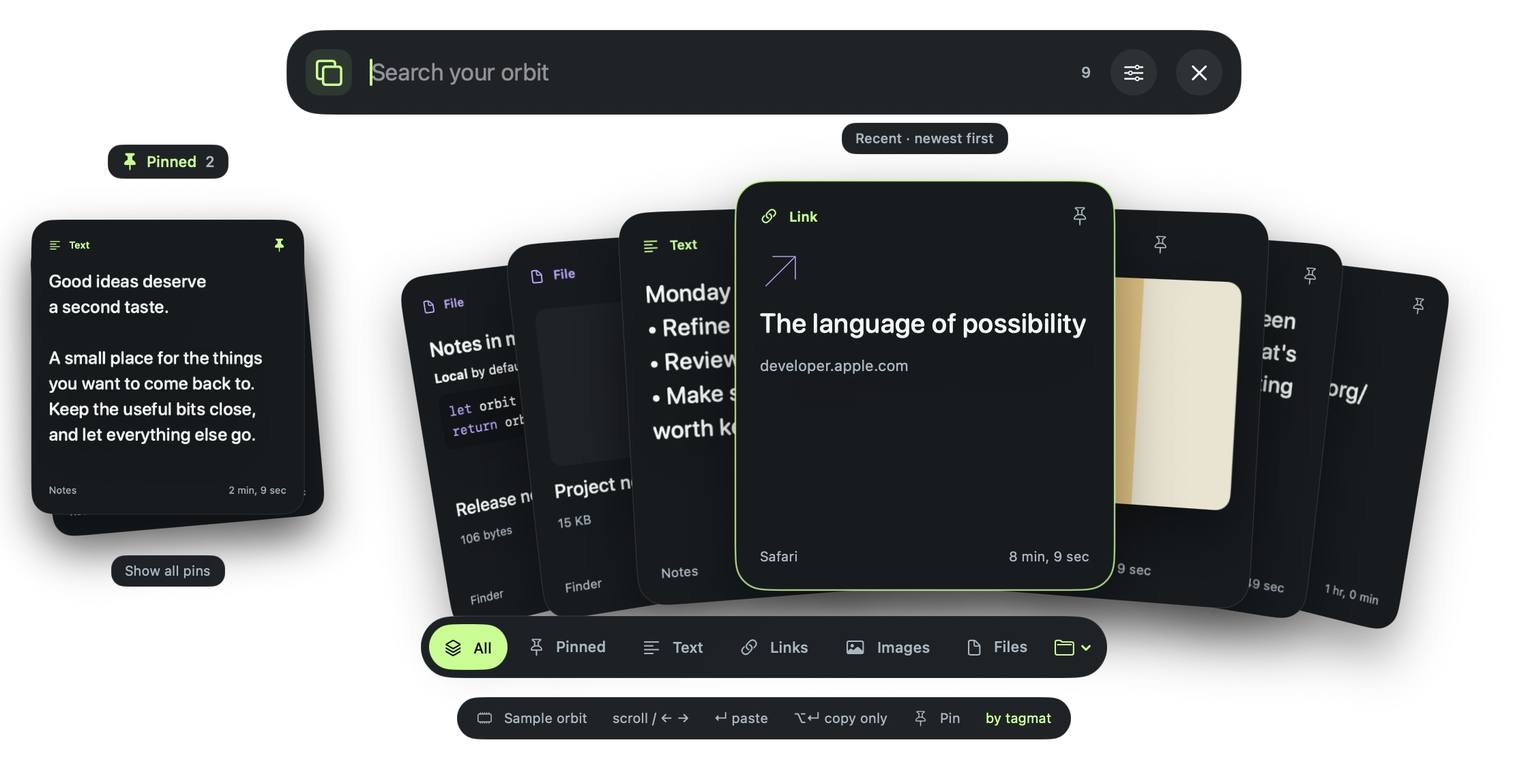
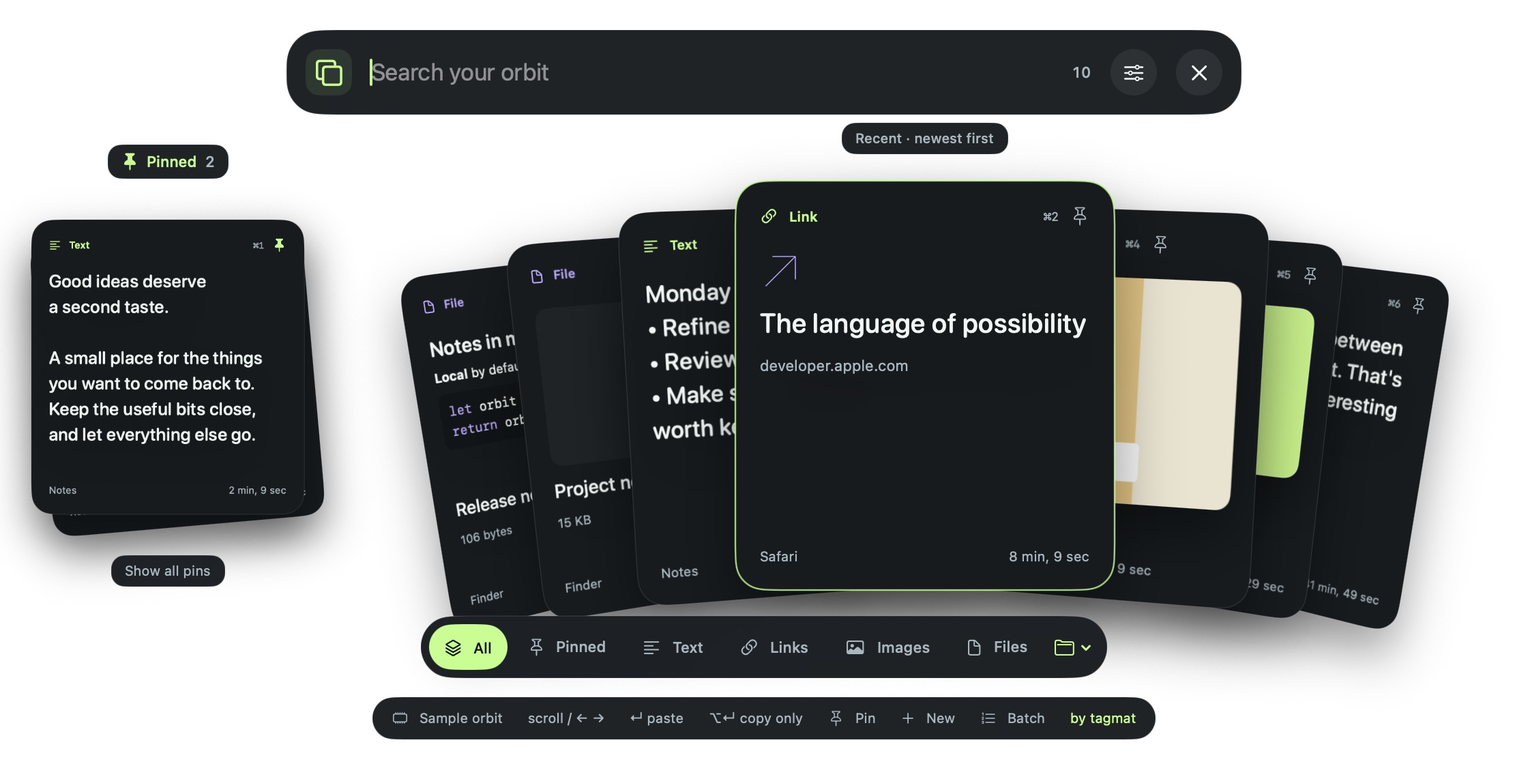
docs: illustrate the new clipboard workflows

diff --git a/README.md b/README.md
@@ -42,19 +42,28 @@ open -n dist/CopyTaste.app --args --demo
 - **Scroll or arrow keys:** move through the cards; **Return:** paste the selected clip.
 - **Option-Return:** copy without automatic paste. **Escape:** dismiss.
 - **Command-P:** pin or unpin the selection. Each card also has a pin button.
+- **Command-1 through Command-9:** paste one of the nine newest matching clips. Cards show their shortcut.
+- **Command-E:** edit the selected clip or rename an image or file. **Command-N:** create a text snippet.
+- **Command-B:** add or remove the selected text or link in the current batch. Open **Batch** to review the order, choose a separator and paste or copy it as one block.
 - Filter All, Pinned, Text, Links, Images or Files. The folder menu filters collections.
 - Right-click a card to copy, assign a collection or delete it.
+
+Change or turn off the global shortcut in **Advanced Settings → On your Mac**. The menu bar still opens the selector.
+
+Enable **Search text in images** in **Privacy & capture** to recognise text from up to 60 recent images using Vision on your Mac. Results are searchable while the selector is open. The temporary index stays in memory and is discarded with the selector. A batch holds up to 12 text clips or links. Closing the selector or switching away clears the batch and any unsaved draft.
 
 The default **Pinned + recent** layout keeps a small pin stack on the left and chronological cards on the right. Open **Show all pins** for the complete pinned collection. Choose **Single orbit** in the menu-bar bubble or advanced settings to combine everything in one chronological stream. Wheel and trackpad gestures move selection while the selector is open.
 
 Cards fan out with staggered springs, respond to pointer movement, move through depth when selection changes and fly away on choosing. Reduce Motion removes the flight, tilt and scale animations. Controls keep a dark substrate so text remains readable over bright or dark desktops.
 
 <details>
-<summary>Quick settings and file previews</summary>
+<summary>Quick settings, file previews and batch paste</summary>
 
 ![Menu-bar quick settings using sample data](docs/media/quick-settings.png)
 
 ![File cards showing formatted Markdown, syntax-coloured Swift and a local PDF thumbnail](docs/media/files.png)
+
+![Batch preview showing two sample clips in paste order](docs/media/batch.png)
 
 </details>
 
@@ -62,7 +71,7 @@ Cards fan out with staggered springs, respond to pointer movement, move through 
 
 **Paste on selection** is enabled by default. Open the menu-bar bubble and check **Accessibility**. Choose **Allow…** to request access when needed. CopyTaste only sends Command-V to the original destination process after checking permission, secure input, activation and session validity.
 
-If access is missing, a destination disappears or focus changes, the item is copied instead and no paste is sent to an unrelated app. Copy-only remains available. The sample selector never activates a destination or sends keyboard events. Real destination support depends on the receiving app and the selected content type.
+If access is missing, a destination disappears or focus changes, the item is copied for manual paste. If another copy replaces it while the destination activates, CopyTaste preserves the newer clipboard and cancels the paste. The sample selector never activates a destination or sends keyboard events. Real destination support depends on the receiving app and the selected content type.
 
 Quick and advanced settings refresh **Accessibility** and **Clipboard access** while visible. On macOS 15.4 or later, clipboard access shows the system setting for reading copies from other apps. If it is blocked, new clips are skipped. Check the Paste from Other Apps setting in macOS Privacy & Security. On earlier macOS versions the clipboard status is unavailable.
 
@@ -73,6 +82,8 @@ Version 0.2 fixes mixed clipboard items: real PNG/TIFF/JPEG/HEIC/GIF/WebP/BMP im
 Files are supported up to **8 MB per file**, within the **24 MB history budget**. Image files and PDFs show small thumbnails; UTF-8 text files show an excerpt; other types, including documents and archives, show the system file-type icon, name and size. A file is pasted as a file URL, not as its filename text.
 
 Markdown clips and `.md` files preview headings, emphasis, lists, quotes and fenced code. Recognised source files and code-like clips colour keywords, strings, comments, numbers and function calls. Formatting is a bounded preview rather than a full editor or language parser. Links are inert, remote images are never loaded, and code is never executed.
+
+Plain text previews are bounded and the full saved text remains available for pasting. Standalone `#RGB` and `#RRGGBB` values show a colour swatch.
 
 Files are captured one at a time. Directories, symlinks, multi-file copies, common key/vault formats and sensitive filenames are skipped. Recognised text files also pass the secret filter and 512 KiB text limit. Binary documents and images are not scanned for every possible secret; exclude sensitive applications and pause capture for private workflows.
 
@@ -88,7 +99,7 @@ File contents stay in RAM or the chosen encrypted history. **Pasting or copying 
 | iCloud Drive sync | Shared passphrase-encrypted file | Synced history remains encrypted |
 | Save pinned items only | Optional rule for local encrypted vaults | Other clips are discarded |
 
-Entries expire after 7 days by default, including pins. Choose 1, 7 or 30 days and 100, 300 or 1,000 clips. Expiration is checked during use and on reopening; a closed app cannot run background deletions. Memory mode clears pins and collections on lock or quit too. macOS may page memory to disk; use FileVault to protect your Mac.
+Entries expire after 7 days by default, including pins. Choose 1, 7 or 30 days and 100, 300 or 1,000 clips. **Keep pins past expiry** skips the age limit for pins and gives them priority within the count and byte limits. Match this choice across Macs sharing an iCloud vault. Expiration runs during use and on reopening. Memory mode clears pins and collections on lock or quit. macOS may page memory to disk, so use FileVault to protect your Mac.
 
 Local vaults use a non-synchronising Keychain key. Opening saved history requires Mac authentication. A copied local vault requires the original keychain; losing that key loses access. Apply storage changes explicitly. The new vault is written before the old active local vault is removed. Backups and filesystem snapshots cannot be revoked by the app.
 
@@ -98,7 +109,9 @@ In advanced settings, choose **iCloud Drive · encrypted sync**, enter a unique 
 
 Clips, files, pins and collections are merged through `iCloud Drive/CopyTaste/history.copytaste`. Data is encrypted before writing using AES-256-GCM and a PBKDF2-HMAC-SHA256 key (600,000 iterations, random salt). The phrase is not saved and cannot be recovered; enter it after locking or restarting.
 
-Merges run every six seconds while open and unlocked, coordinate file access and combine unresolved iCloud conflict versions. Deletions prevent stale peers restoring removed items. macOS handles network delivery: the local-merge time does not certify arrival on another device. Disconnecting leaves the shared encrypted file for other Macs. Paused capture does not pause sync; lock to stop both and unload the session.
+While open and unlocked, CopyTaste checks for merges every six seconds. A failed merge keeps changes in bounded memory and retries with increasing delays. Advanced settings show the issue, whether changes are waiting and the last successful local merge. Use **Sync Now** to retry immediately. Lock or quit discards pending changes that could not be written. If an existing vault is missing when reopened, restore it in iCloud Drive first.
+
+Deletions prevent stale peers restoring removed items. macOS handles network delivery, and a local merge time only reports the local file operation. Disconnecting leaves the shared encrypted file for other Macs. Locking stops capture and sync and unloads the session.
 
 The merge and encryption protocol is tested with isolated temporary files. Live delivery, account access and iCloud conflict handling still need two-Mac validation. There are no app accounts, analytics, remote previews, content logs or custom sync servers.
 

diff --git a/DESIGN.md b/DESIGN.md
@@ -17,6 +17,7 @@ typography:
   brand: {fontFamily: "ui-rounded, system-ui", fontSize: "20pt", fontWeight: 600}
   link: {fontFamily: "ui-rounded, system-ui", fontSize: "20pt", fontWeight: 500}
   clip: {fontFamily: "ui-rounded, system-ui", fontSize: "18pt", fontWeight: 500}
+  swatch-label: {fontFamily: "ui-monospace, monospace", fontSize: "18pt", fontWeight: 500}
   search: {fontFamily: "system-ui", fontSize: "17pt", fontWeight: 400}
   section: {fontFamily: "system-ui", fontSize: "15pt", fontWeight: 600}
   file-name: {fontFamily: "system-ui", fontSize: "15pt", fontWeight: 500}
@@ -25,6 +26,7 @@ typography:
   markdown-heading: {fontFamily: "ui-rounded, system-ui", fontSize: "17pt", fontWeight: 600}
   filter: {fontFamily: "system-ui", fontSize: "11pt", fontWeight: 500}
   metadata: {fontFamily: "system-ui", fontSize: "10pt", fontWeight: 400}
+  shortcut-hint: {fontFamily: "ui-monospace, monospace", fontSize: "9pt", fontWeight: 400}
 rounded:
   code-block: "7pt"
   thumbnail: "10pt"
@@ -91,13 +93,25 @@ Cards use continuous rounded corners. Search, filter and hint strips use their d
 
 Choosing a fan card flings it 160 points upward while other fan cards drop 95 and spread outward. The departure uses 180 ms ease-in, fading and blurring to 9 points; the chosen card scales to 1.06 and others to 0.68. The controller waits 180 ms before hiding on choice or ordinary dismissal, then copies or pastes when applicable; loss of key status hides immediately. Reduce Motion removes phase/selection animations, tilt, rotation, blur and animated scaling, keeps the static fan positions and compact pin-stack scale, and skips the departure wait.
 
-**Interaction.** Command-Shift-V opens the selector. Arrow keys, mouse wheel and trackpad scrolling navigate. Scroll handling is local to the open selector, follows the dominant axis and ignores momentum; precise scrolling accumulates 28 points per step, with a 90 ms minimum between steps. Return and card activation paste when enabled; Option-Return copies only. Command-P, card pins and filters keep the selector open. Escape dismisses. Direct paste requires Accessibility permission; otherwise feedback and its permission action appear in the menu-bar bubble. Context menus provide copy, paste, pin, collection and delete. Icon actions have accessible names; selected cards expose a summary and selected state.
+**Interaction.** Command-Shift-V opens the selector by default. The advanced shortcut picker also offers Option-Command-V, Control-Option-V and Off. The menu-bar bubble shows the active shortcut when enabled. Arrow keys, mouse wheel and trackpad scrolling navigate. Scroll handling is local to the open selector, follows the dominant axis and ignores momentum. Precise scrolling accumulates 28 points per step, with a 90 ms minimum between steps.
+
+Return and card activation paste when enabled. Option-Return copies only. Command-1 through Command-9 choose the nine newest matches in either layout. Visible cards in that set show a muted monospaced shortcut hint beside the pin. Command-P, card pins and filters keep the selector open. Escape dismisses the selector or returns from an inline workflow to search. Icon actions have accessible names. Selected cards expose a summary and selected state.
+
+**Inline workflows.** The editor and batch preview replace the cards inside the same floating panel. Both use a 440-point frosted surface with 22-point padding and 18-point corners. Command-E or the card menu opens the editor. Command-N or New opens a snippet draft. The editor has an optional title and a 150-point text area for editable text and links. Image and file clips can be renamed. Validation appears inline in violet. Save or Cancel returns focus to search.
+
+Command-B or the card menu toggles a text or link clip in the batch. The Batch control opens a numbered preview in the order clips were added. A batch holds up to 12 clips and 512 KB of combined text. Items can be removed individually or cleared together. The separator can be a new line, blank line or tab. The footer offers Paste and Copy when automatic paste is enabled, and Copy when it is disabled.
 
 **Previews.** Real image representations take precedence over accompanying URLs. Image thumbnails stay in memory and crop to a 174-point preview. Files use a 126-point image or first-page PDF preview, a text preview, or a native 70 × 84 type icon with name and size. Eligible text files up to 512 KB decode at most 8000 bytes, then choose Markdown, code or plain text by format; filenames participate in search. Links show a title and host without fetching pages.
 
-Markdown and code previews use local SwiftUI text and AttributedString formatting. Markdown parsing is bounded to 8000 characters and 120 input lines; cards show at most six blocks, with headings, inline emphasis, lists, quotes, rules and fenced code. Text-card Markdown clips at 190 points. Links are inert and images are never fetched. Code highlighting is bounded to 8000 characters, with ten lines in text cards, seven in files and five inside Markdown fences. Fenced code has 8-point padding, code-block corners and an 18%-black backing.
+Text cards inspect the first 8000 characters. Plain text shows up to 1800 characters across seven lines. A standalone `#RGB` or `#RRGGBB` value uses a 136-point swatch with 12-point corners, a light outline and its monospaced value beneath it.
 
-**States.** Empty and no-match results replace cards with a frosted message and capture opt-in when applicable. Locked history replaces previews with authentication and, for iCloud, a secure passphrase field. The bubble shows capture/lock state, clip count, storage, native mini switches and conditional permission guidance. Advanced settings use native fields, pickers and alerts within graphite sections. Errors and feedback omit clipboard payloads.
+Markdown and code previews use local SwiftUI text and AttributedString formatting. Markdown parsing is bounded to 8000 characters and 120 input lines. Cards show at most six blocks, with headings, inline emphasis, lists, quotes, rules and fenced code. Text-card Markdown clips at 190 points. Links are inert and images are never fetched. Code highlighting is bounded to 8000 characters, with ten lines in text cards, seven in files and five inside Markdown fences. Fenced code has 8-point padding, code-block corners and an 18%-black backing.
+
+**Image text search.** The advanced privacy setting enables on-device Vision recognition for up to 60 recent images while the selector is open. The index lives in the selector session and clears on lock. The search capsule displays an accessible progress indicator when a query is present and recognition is still running.
+
+**States.** Empty and no-match results replace cards with a frosted message and capture opt-in when applicable. Locked history replaces previews with authentication and, for iCloud, a secure passphrase field. The bubble shows capture or lock state, clip count, storage and native mini switches. Advanced settings use native fields, pickers and alerts within graphite sections. Errors and feedback omit clipboard payloads.
+
+**Permission and sync status.** Quick and advanced settings refresh Accessibility and clipboard access status while visible. Accessibility gates direct paste and has an Allow action when access is missing. Clipboard access displays the system behavior where macOS exposes it and an unavailable state on earlier releases. Sample sessions display their own status. For active, unlocked iCloud storage, advanced settings show the last local merge when available, a Sync Now action, retry feedback and changes waiting in memory. The bubble reflects pending changes or a retry beneath its storage label.
 
 ## Do's and Don'ts
 

diff --git a/SECURITY.md b/SECURITY.md
@@ -1,6 +1,6 @@
 # Security model
 
-CopyTaste 0.2.0 is an early release. It reduces accidental retention of sensitive copies; it is not a password vault or a defence against a compromised Mac.
+CopyTaste 0.3.0 reduces accidental retention of sensitive copies.
 
 ## Capture boundary
 
@@ -28,7 +28,7 @@ The key is a 256-bit value stored through Security.framework as a non-synchronis
 
 A missing key, failed authentication, corrupt file or unsupported version leaves the existing vault untouched. A storage write failure pauses capture and does not fall back to plaintext persistence. Saved history starts locked on relaunch. Key references are released when locking; keys are not printed or committed. Changing storage removes the prior active vault after writing the destination. A copied vault is not portable to a new Mac without the original Keychain item.
 
-App-managed retention applies to pins too, on capture, every minute while open and when reopening a saved vault. Files are not deleted while the app is closed. Removing entries or a vault is not guaranteed secure erasure on APFS, SSDs, provider backups or snapshots. Copies previously made by another application cannot be revoked.
+App-managed retention applies to pins by default, on capture, every minute while open and when reopening a saved vault. The optional pin exemption skips only the age limit. Pins still count toward the clip and byte limits. Files are not deleted while the app is closed. Removing entries or a vault is not guaranteed secure erasure on APFS, SSDs, provider backups or snapshots. Copies previously made by another application cannot be revoked.
 
 ## Clipboard output
 
@@ -43,6 +43,8 @@ The sync phrase is not persisted in Keychain, UserDefaults or the vault. Its UTF
 The encrypted state includes content, pin state, collection membership, deletion fingerprints and a clear-history timestamp. Merge prefers the most recently modified entry with a deterministic identity tie-break, and applies deletion boundaries to original capture dates so stale pin changes cannot resurrect removed content. Recopying after deletion creates a new capture date and can be retained again. Each merge reapplies the receiving device's content filters and retention. Device clocks must be reasonably accurate. Deletion logs are bounded; filling them pauses writes instead of dropping deletion evidence. Start a fresh shared vault after archiving or removing the old one if this boundary is reached.
 
 NSFileCoordinator coordinates local access. Unresolved NSFileVersion conflicts are decrypted, merged and marked resolved after a successful write. Identical state does not cause a new write, avoiding continuous sync churn. Known evicted placeholders are requested for download before connecting; no fresh vault is created over those placeholders. iCloud provides transport and account protection; a local merge timestamp does not establish delivery. Availability, placeholder formats and conflict handling need live multi-device validation. Disconnecting or switching to memory does not delete cloud/provider copies. All clients knowing the phrase can decrypt and modify shared history; no separate device revocation protocol exists in this version.
+
+A failed merge leaves pending edits and deletions in the unlocked session's bounded memory. CopyTaste retries with backoff and reports the last local merge. Lock or quit discards pending changes. Only explicit iCloud setup can initialise a vault. Reopening a previously configured vault requires the original file or a restored copy.
 
 ## Distribution and reporting
 
@@ -63,6 +65,8 @@ File URLs are handled only after metadata rejection. Only one regular file is ca
 
 Image representations win over accompanying text or URLs. Disabling image capture does not silently keep that image's URL. Thumbnail decoding is bounded before bitmap allocation; PDFs are rendered from Data at thumbnail size. Generic file types use native icons. No remote preview fetch or document macro execution is performed. Binary archives/documents and images may contain secrets the app cannot identify. All peers must support the file entry kind (0.2 or newer) before using file sync.
 
+Image text search is opt-in. Vision processes bounded images locally while the selector is open. Recognised text that matches secret heuristics is omitted from the temporary search index. The index is separate from history and is released on closing or locking the selector. Manual snippets, edited text and clip labels pass the text secret filter before saving.
+
 Selecting Copy or Paste for a file materialises an outgoing file in a unique owner-only temporary directory. The directory is mode 0700 and file mode 0600; its path is placed on the private-marked pasteboard. Transfers expire after five minutes even when clipboard auto-clear is set to Never. Clear History, lock and quit remove owned transfers earlier. Removal is best effort and does not promise secure erasure on SSDs, snapshots or crash recovery. A receiving application may retain its own copy. A crash can leave temporary transfers for OS cleanup.
 
 ## Direct paste and permissions
@@ -70,5 +74,7 @@ Selecting Copy or Paste for a file materialises an outgoing file in a unique own
 Automatic paste is a separate, optional delivery action after an explicit item selection. It requires Accessibility permission; CopyTaste cannot grant that permission itself. Copy-only and demo modes never post input. The app copies first, validates the requested process, activates it, waits briefly and checks trust, secure input, foreground PID and session generation again. Events are addressed to the original PID through CGEvent.postToPid, rather than sent indiscriminately to whichever app gains focus. Locking or reopening the selector cancels an in-flight paste. No global event tap, keystroke logger or Input Monitoring entitlement is used.
 
 Missing permission or failed destination validation leaves a copy available for manual paste. CGEvent delivery has no acknowledgement that the receiving app accepted the content; app-specific paste formats still matter. Real Accessibility approval and cross-app delivery need manual OS testing. Local ad-hoc rebuilds can require permission reapproval; use a stable Developer ID for distribution.
+
+The pasteboard change count is checked after destination activation. A newer copy cancels the pending paste and remains intact. Batch paste builds one temporary text block from explicitly selected text or links. It uses the same output and destination checks as a single clip.
 
 While settings are visible, CopyTaste queries its Accessibility trust and, on macOS 15.4 or later, the system pasteboard access policy. These status checks do not read clipboard contents or display permission prompts. The Allow button explicitly requests Accessibility. When the system policy blocks programmatic pasteboard access, the capture monitor skips the change before requesting item metadata or contents. The policy can be inspected separately from the Capture switch.

diff --git a/docs/ARCHITECTURE.md b/docs/ARCHITECTURE.md
@@ -16,6 +16,8 @@ Entries deduplicate by content fingerprint, including file bytes and filename, t
 
 The selector is a transparent, nonactivating NSPanel. SwiftUI positions up to seven real clipboard cards around the selected index using circular slots, perspective, spring motion, staggered entry and exit flight. The default layout places a small pinned stack on the left and chronological recent cards on the right; a presentation preference selects a combined chronological orbit instead. Matching entries retain the full bounded history, so pins cannot displace recent results through a separate display cap. Search/filter/hint surfaces combine native material with a dark substrate. Keyboard focus, arrow navigation, copy-only, pinning, filters and collection assignment operate on the same retained history. A local scroll monitor accepts wheel/trackpad events only from the open picker window, ignores momentum and advances selection. Reduce Motion suppresses spatial animation. Preview mode has a separate app identity, isolated pasteboard and no hot-key registration, allowing development without restarting a live memory session.
 
+The clip editor and ordered batch share the selector's panel. Batch selection stores IDs and resolves them against current history. Saving edited text assigns a new identity and records the prior fingerprint's deletion during sync. Labels and unchanged bodies preserve their identity. An optional search index recognises bounded images on a serial Vision actor and stays inside the selector view. The panel releases its hosting view on dismissal.
+
 `PreviewCache` bounds in-memory bitmap and PDF thumbnails. PDFDocument stays alive while PDFPage renders. Generic files use system type icons. No preview file is written merely to render the selector.
 
 `PreviewFormatting` bounds Markdown parsing and syntax tokenisation to 8,000 characters. Markdown blocks render as native SwiftUI text; inline links are removed and images are never fetched. Code token UTF-16 ranges are converted to SwiftUI AttributedString ranges for colouring. Known file extensions take precedence over text heuristics. These inert previews do not execute code or embed a browser.
@@ -31,5 +33,7 @@ File paste materialises a unique mode-0700 directory and mode-0600 file through 
 Memory mode never invokes a history file or key adapter. Local vaults encrypt the complete snapshot with AES-256-GCM before atomic writes; their non-synchronising key uses Security.framework. LocalAuthentication gates reopening saved history.
 
 Optional iCloud Drive sync uses a separate passphrase-derived portable key, coordinated file access, version-conflict merging, modification timestamps, deletion fingerprints and a clear boundary. The original phrase material is held only while unlocked to derive keys for independently initialised salts. File entries require 0.2-capable peers. The cloud path is the user's already-enabled iCloud Drive directory, not a custom server.
+
+In sync mode, the model stages accepted mutations in its current in-memory snapshot and keeps their tombstones until exchange succeeds. Failures leave the state visible, record the reason and schedule a bounded retry. A successful local merge clears the pending status. Reopening requires the existing vault. Only explicit setup may create one.
 
 Lock/session/sleep signals stop capture, clear owned clipboard output and temporary transfers, purge preview caches and release history/key references. Saved vaults remain encrypted. UserDefaults stores preferences only. Authentication and generation checks prevent delayed work reopening or pasting after a later lock. See [security](../SECURITY.md) for limits and [testing](TESTING.md) for evidence.

diff --git a/docs/VALIDATION.md b/docs/VALIDATION.md
@@ -1,10 +1,10 @@
 # Validation — 4 November 2026
 
-CopyTaste 0.2 was validated locally using macOS 26.3.1, Xcode 26.5 and Swift 6.3.2 on Apple Silicon.
+CopyTaste 0.3 was validated locally using macOS 26.3.1, Xcode 26.5 and Swift 6.3.2 on Apple Silicon.
 
 ## Automated
 
-77 tests passed with synthetic content and isolated native pasteboards/temporary files. Regressions cover mixed image/URL representations, files and symlinks, file transfer cleanup, filename search, in-memory PDF previews, selector slots, a recent clip after 100 pins, Markdown blocks, bounded Unicode-safe syntax tokens, preference migration, unknown layout fallback and destination-safe direct-paste decisions. The permission revocation regression confirms that a loss of trust during activation leaves the clip copied and sends no event to the test sink.
+85 tests passed with synthetic content and isolated native pasteboards and temporary files. New cases cover Vision recognising the rendered sample image, ephemeral OCR search, batch order and size limits, snippet creation, edit validation, pin expiry, recovery after a missing sync file and paste cancellation when a newer copy replaces the clipboard. The sync regression confirms a stale peer cannot restore the original text after the pending edit merges. The permission revocation regression confirms that a loss of trust during activation leaves the clip copied and sends no event to the test sink.
 
 Release builds succeeded for arm64 and x86_64. The clean distribution ZIP is built and ad-hoc signed in a temporary staging directory outside folder-sync metadata. Bundle metadata and shell syntax checks passed. Test vaults, transfer fixtures and build staging directories were cleaned. No Docker resources were needed.
 
@@ -15,6 +15,8 @@ A separately identified preview app used synthetic clips and an isolated pastebo
 In the unlocked sample session, a scroll event moved selection from a link to the next image. Show all pins revealed the two sample pins. Switching to Single orbit removed the split, and the Files filter showed formatted Markdown, coloured Swift tokens and a PDF thumbnail. The final build puts the split captions on dark surfaces and leaves room for card shadows. README screenshots show these final sample surfaces. PNG exports were checked for text, EXIF and time chunks. The GIF was assembled from reencoded pixel frames.
 
 The Accessibility and Clipboard access rows were checked in both settings surfaces using the sample session. Live macOS permission changes still need a manual test.
+
+The 0.3 sample session showed numbered cards, Command-B queueing two clips in order, and Command-E opening the clip editor. The Save path was checked in integration tests. Actual destination paste acknowledgement and multi-Mac transport remain manual checks.
 
 ## Not certified
 

diff --git a/docs/TESTING.md b/docs/TESTING.md
@@ -17,6 +17,9 @@ Use synthetic data and a dedicated account for permission tests.
 - With advanced settings visible, grant and revoke Accessibility and verify the status updates. On macOS 15.4 or later, change Paste from Other Apps to Blocked and verify the clipboard status updates and new synthetic copies are skipped. After restoring access, verify only subsequent copies are captured.
 - Test arrow and wheel/trackpad navigation, Return, Option-Return, Command-P, pin/type/collection filters, hover movement, VoiceOver labels and Reduce Motion. Switch between Pinned + recent and Single orbit. With 100 pins, a new unpinned clip must remain reachable. Demo must never activate another process or post paste input.
 - Preview Markdown headings/lists/fenced code and source files containing comments, strings and Unicode. Ensure previews do not activate links, fetch images or execute code.
+- In the sample selector, add two text clips with Command-B and verify the review order. Switch the separator, then copy the batch. Verify Command-1 through Command-9 select the clips shown by the card hints. Create a snippet with Command-N and edit a clip with Command-E.
+- Enable Search text in images and search for `Golden hour study` in the sample session. The search should return the palette image. Close the selector to discard the OCR index and open it again to test rebuilding.
+- In a disposable local sync fixture, move the vault file out of the way. Verify edits stay visible and sync reports pending changes. Restore the same file and choose Sync Now to verify the edits merge.
 - Select a file, then Clear History or lock. Verify the owned temporary transfer is removed and newer clipboard values are preserved.
 - Exercise encrypted local/custom-folder storage, cancelled authentication, missing Keychain, failed writes, retention and screen/session/sleep locking with disposable vaults.
 - Use two Macs with a test iCloud account for real delivery, offline changes, placeholder downloads, conflict versions and deletion propagation. Update all peers before syncing file entries.
